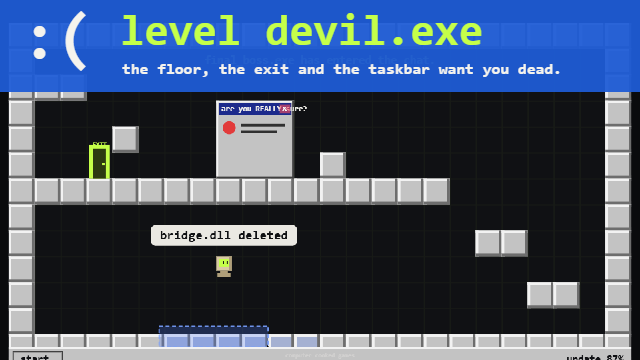
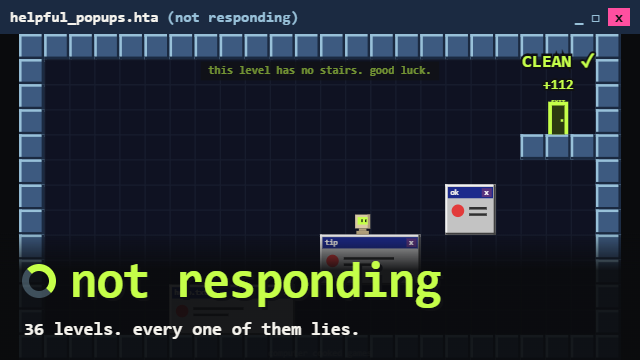
level-devil-exe 2.5: new thumb (not responding look), test freeze hook

diff --git a/games/level-devil-exe/play/game.js b/games/level-devil-exe/play/game.js
@@ -934,9 +934,10 @@ window.addEventListener('blur', () => { keys.l = keys.r = keys.j = false; });
 
 // ---------- loop ----------
 let last = performance.now();
+let testHold = false;   // tests only (__ld.hold): freeze the world, keep drawing
 function frame(now) {
   let dt = Math.max(0, Math.min(0.05, (now - last) / 1000)); last = now;   // 2.2: never negative (a slow first frame could start behind the clock)
-  if (!paused) { const n = dt > 1 / 90 ? 2 : 1; for (let i = 0; i < n; i++) update(dt / n); }
+  if (!paused && !testHold) { const n = dt > 1 / 90 ? 2 : 1; for (let i = 0; i < n; i++) update(dt / n); }
   draw();
   requestAnimationFrame(frame);
 }
@@ -952,5 +953,5 @@ requestAnimationFrame(frame);
 
 window.__ld = { LEVELS, get L() { return L; }, set L(v) { L = v; }, get mode() { return mode; }, set mode(v) { mode = v; }, get jhp() { return jumpHeldPrev; }, set jhp(v) { jumpHeldPrev = v; }, keys, update, draw, layout, set hw(v) { hw = v; }, startLevel, loadLevel, makeCard, get speedrun() { return speedrun; }, get pad() { return pad; }, get V() { return V; }, get deadT() { return deadT; },
   // 2.4 (tests): run score, records, goals, the daily file
-  get run() { return run; }, get save() { return save; }, get lvClock() { return lvClock; }, get pops() { return pops; }, win, nextGoal, dailyLv, checkGoals, GOALS };
+  get run() { return run; }, get save() { return save; }, get lvClock() { return lvClock; }, get pops() { return pops; }, win, nextGoal, dailyLv, checkGoals, GOALS, set hold(v) { testHold = !!v; }, kill: (m) => kill(m || 'TEST') };
 })();
